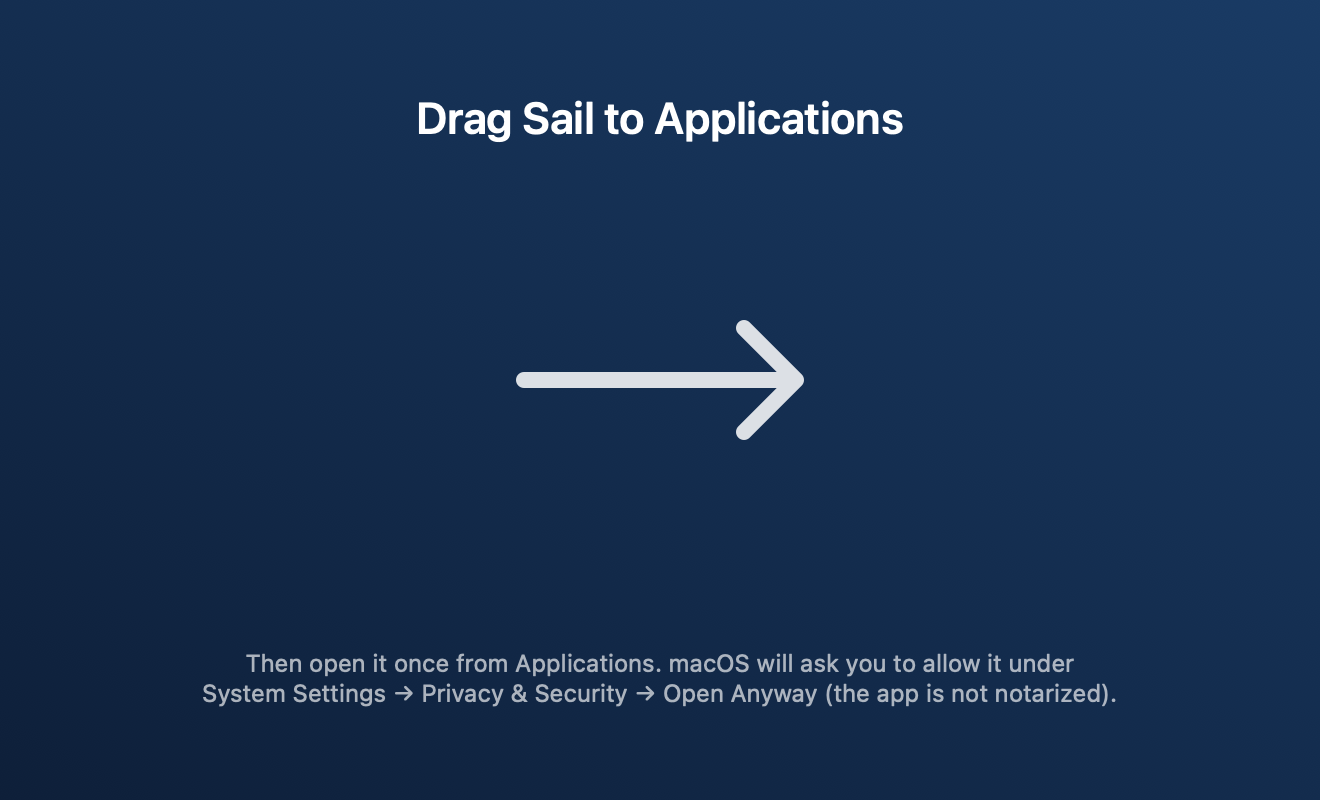
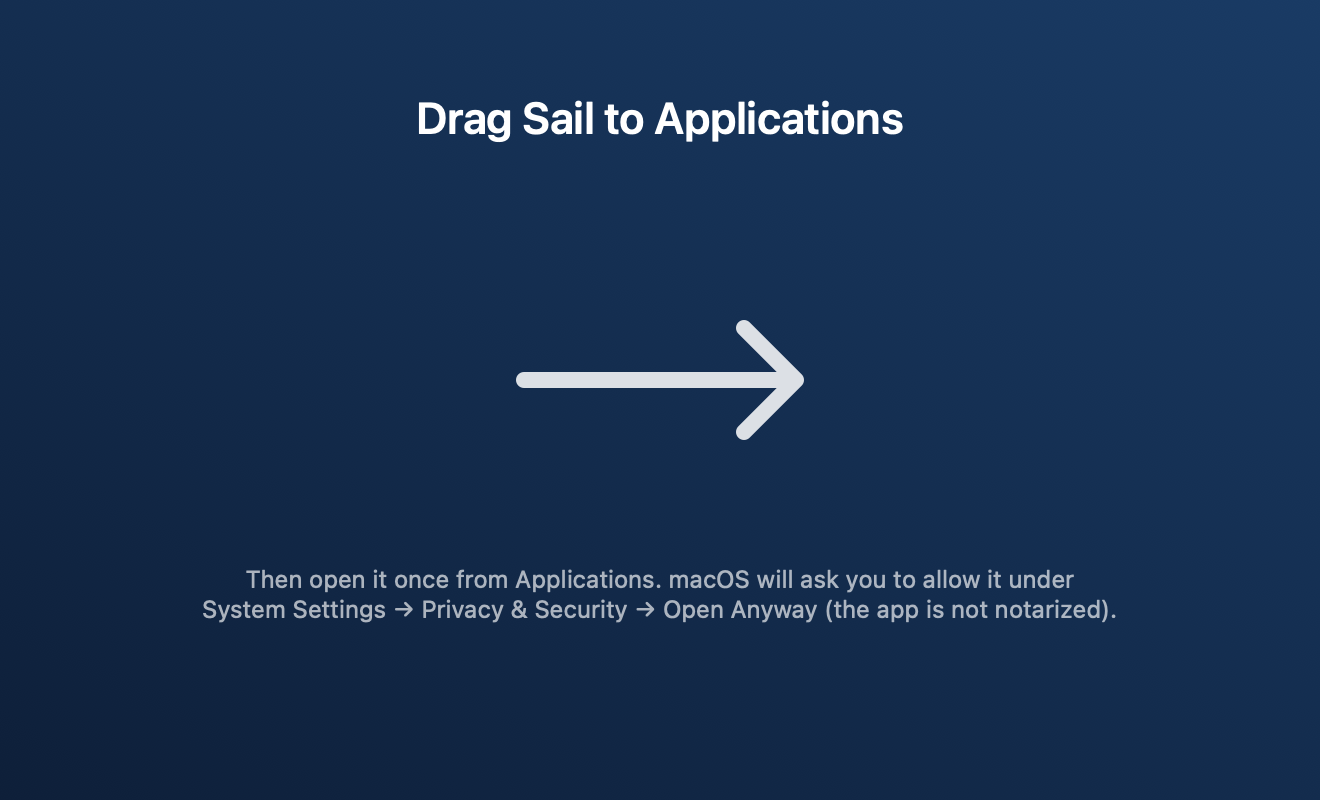
DMG background: keep the hint above Finder's path bar

Changed region(s): [[0.1553, 0.8125, 0.8386, 0.875], [0.1553, 0.7188, 0.8386, 0.7812]]

diff --git a/scripts/make-dmg-background.swift b/scripts/make-dmg-background.swift
@@ -22,7 +22,7 @@ let title = NSAttributedString(string: "Drag Sail to Applications", attributes: 
 title.draw(in: NSRect(x: 0, y: 320, width: W, height: 34))
 let sub = NSAttributedString(string: "Then open it once from Applications. macOS will ask you to allow it under\nSystem Settings → Privacy & Security → Open Anyway (the app is not notarized).", attributes: [
     .font: NSFont.systemFont(ofSize: 12), .foregroundColor: NSColor.white.withAlphaComponent(0.65), .paragraphStyle: p])
-sub.draw(in: NSRect(x: 30, y: 36, width: W - 60, height: 40))
+sub.draw(in: NSRect(x: 30, y: 78, width: W - 60, height: 40))
 NSGraphicsContext.restoreGraphicsState()
 try! rep.representation(using: .png, properties: [:])!.write(to: URL(fileURLWithPath: CommandLine.arguments[1]))
 print("wrote \(CommandLine.arguments[1])")
